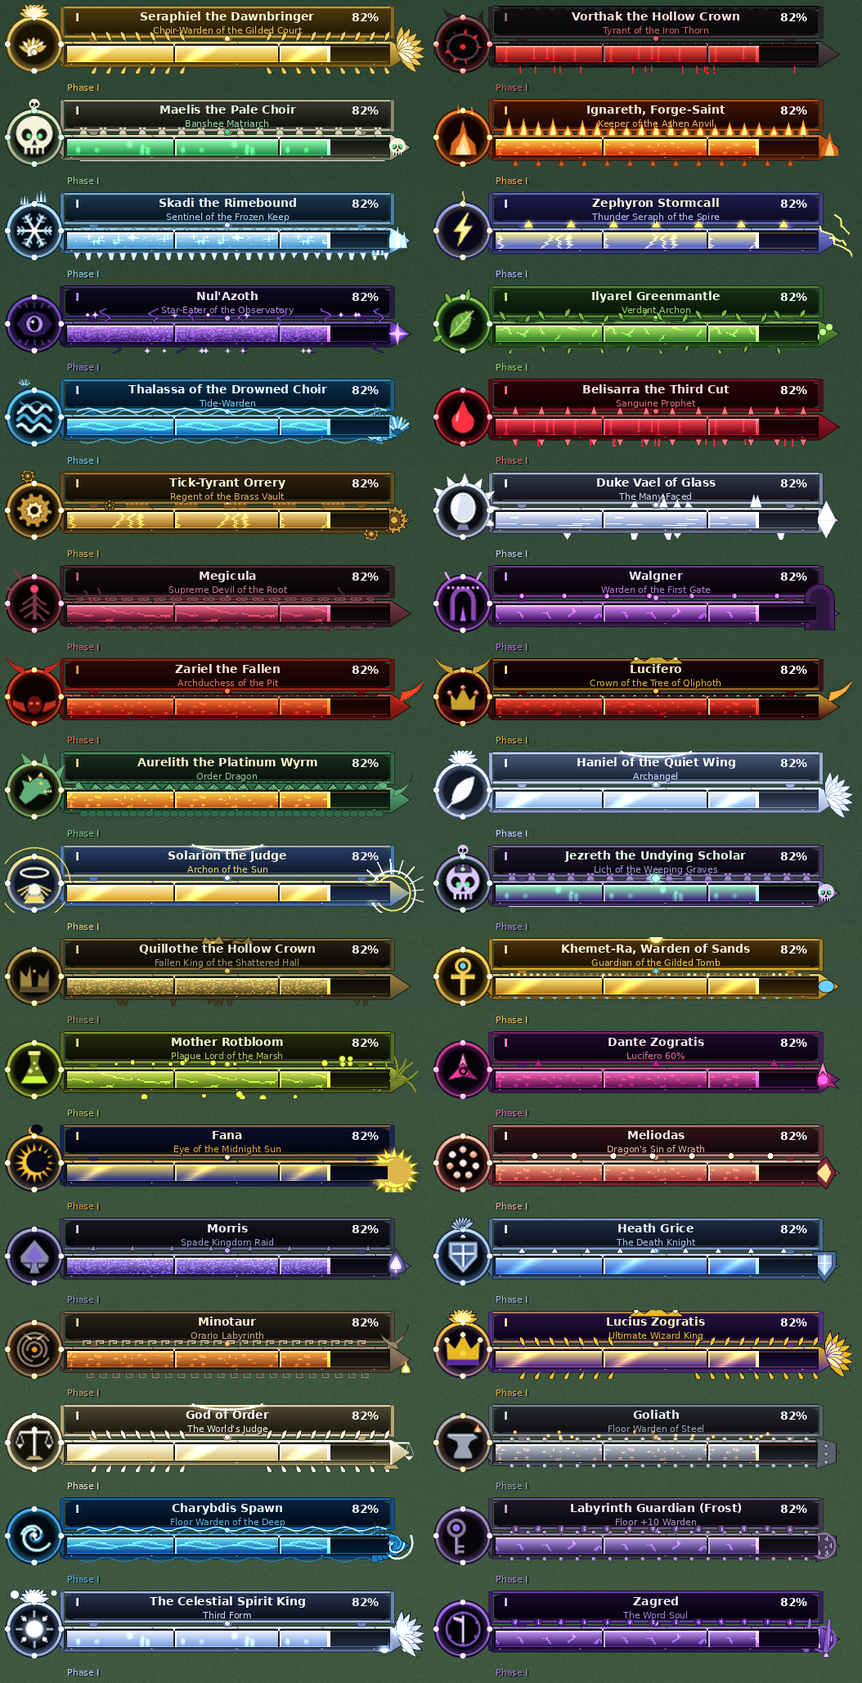
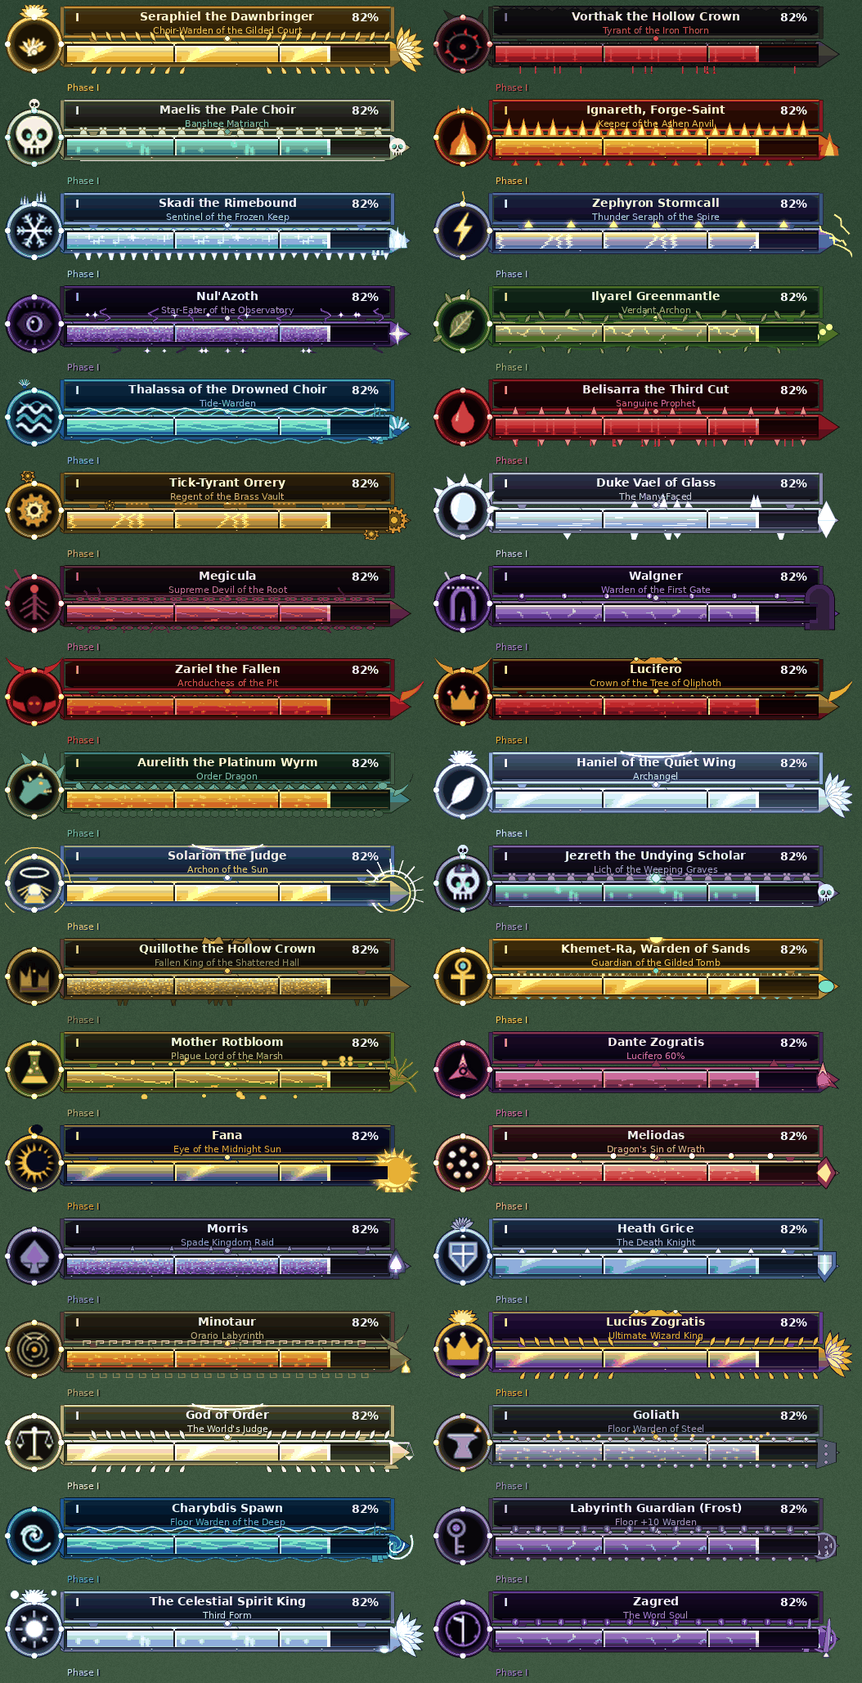
boss-bars: docs, lang test, chains art, showHp line, previews
Claude-Session: https://claude.ai/code/session_0174t393fJ2EgwV92FW9SroE

diff --git a/src/test/java/com/newuniverse/nusmp/boss/bars/BossBarLangTest.java b/src/test/java/com/newuniverse/nusmp/boss/bars/BossBarLangTest.java
@@ -1,0 +1,69 @@
+package com.newuniverse.nusmp.boss.bars;
+
+import com.google.gson.JsonObject;
+import com.google.gson.JsonParser;
+import org.junit.jupiter.api.Test;
+
+import java.io.IOException;
+import java.nio.file.Files;
+import java.nio.file.Path;
+import java.util.ArrayList;
+import java.util.List;
+import java.util.regex.Matcher;
+import java.util.regex.Pattern;
+import java.util.stream.Stream;
+
+import static org.junit.jupiter.api.Assertions.*;
+
+/**
+ * Why: "all text through lang keys". The fragment {@code tools/lang/boss_bars.json} is flat, and every {@code nusmp.bossbar.*} key the code asks for is in it (the code also gives a fallback text,
+ * but a missing key would show English in every language), including one name for each lair action the Decennial vocabulary and the D&D layer know.
+ */
+class BossBarLangTest {
+    private static JsonObject fragment() throws IOException {
+        return JsonParser.parseString(Files.readString(Path.of("tools/lang/boss_bars.json"))).getAsJsonObject();
+    }
+
+    @Test
+    void theFragmentIsFlatAndHasAKeyForEveryLairAction() throws IOException {
+        JsonObject f = fragment();
+        for (var e : f.entrySet()) {
+            assertTrue(e.getKey().startsWith("nusmp.bossbar."), e.getKey());
+            assertTrue(e.getValue().isJsonPrimitive() && e.getValue().getAsString().length() > 0, e.getKey());
+        }
+        JsonObject lairs = JsonParser.parseString(Files.readString(Path.of("src/main/resources/data/nusmp/mega/decennial/lairs.json"))).getAsJsonObject();
+        for (String id : lairs.keySet()) if (!id.startsWith("_")) assertTrue(f.has("nusmp.bossbar.lair." + id), "no name for the lair action " + id);
+        for (String id : List.of("tremor", "anti_magic_field", "searing_light", "falling_stars", "necrotic_mist")) assertTrue(f.has("nusmp.bossbar.lair." + id), "no name for the D&D lair action " + id);
+    }
+
+    @Test
+    void everyKeyTheCodeNamesIsInTheFragment() throws IOException {
+        JsonObject f = fragment();
+        Pattern key = Pattern.compile("\"(nusmp\\.bossbar\\.[a-z_.]+)\"");
+        List<String> missing = new ArrayList<>();
+        for (Path root : List.of(Path.of("src/main/java/com/newuniverse/nusmp/client/gui/bossbar"), Path.of("src/main/java/com/newuniverse/nusmp/boss/bars"))) {
+            try (Stream<Path> s = Files.walk(root)) {
+                for (Path p : (Iterable<Path>) s.filter(x -> x.toString().endsWith(".java"))::iterator) {
+                    Matcher m = key.matcher(Files.readString(p));
+                    while (m.find()) {
+                        String k = m.group(1);
+                        if (k.endsWith(".")) continue;                              // a prefix the code completes (nusmp.bossbar.lair.<id>)
+                        if (!f.has(k)) missing.add(p.getFileName() + " " + k);
+                    }
+                }
+            }
+        }
+        assertTrue(missing.isEmpty(), "keys the code names that tools/lang/boss_bars.json lacks: " + missing);
+    }
+
+    @Test
+    void theTextsWithArgumentsKeepTheirPlaceholders() throws IOException {
+        JsonObject f = fragment();
+        assertEquals(2, f.get("nusmp.bossbar.phase_named").getAsString().split("%s", -1).length - 1);
+        assertTrue(f.get("nusmp.bossbar.phase").getAsString().contains("%s"));
+        assertTrue(f.get("nusmp.bossbar.adds").getAsString().contains("%s"));
+        assertTrue(f.get("nusmp.bossbar.fighters").getAsString().contains("%s"));
+        assertTrue(f.get("nusmp.bossbar.lair_warning").getAsString().contains("%s"));
+        assertFalse(f.get("nusmp.bossbar.fighter").getAsString().contains("%s"));
+    }
+}

diff --git a/src/main/java/com/newuniverse/nusmp/client/gui/bossbar/CustomBarPainter.java b/src/main/java/com/newuniverse/nusmp/client/gui/bossbar/CustomBarPainter.java
@@ -132,6 +132,11 @@ final class CustomBarPainter {
         if (s.casting()) st.cast.set(font, CustomBarState.resolve(s.castName()), s.castName());
         if (s.invulnerable() && !st.invulnerable.isSet()) st.invulnerable.set(font, Component.translatableWithFallback("nusmp.bossbar.invulnerable", "Invulnerable"), BarStyles.class);
         if (s.enraged() && !st.enraged.isSet()) st.enraged.set(font, Component.translatableWithFallback("nusmp.bossbar.enraged", "Enraged"), BarStyles.class);
+        if (BossBarOptions.showHp() && st.portrait != null && !st.portrait.isRemoved()) {
+            int cur = Math.round(st.portrait.getHealth()), max = Math.round(st.portrait.getMaxHealth());
+            long k = cur * 1000003L + max;
+            if (st.hp.differs(k)) st.hp.setNum(font, Component.literal(cur + " / " + max), k);
+        }
         if (BossBarOptions.showDps()) {
             int d = Math.round(st.dps.percentPerSecond());
             if (st.dpsText.differs(d)) st.dpsText.setNum(font, Component.translatableWithFallback("nusmp.bossbar.dps", "-%s%%/s", d), d);
@@ -150,8 +155,8 @@ final class CustomBarPainter {
         layer(g, atlas, 0, 0, W, 0f, 0f);
         // socket: the boss itself if it is near, else the emblem
         boolean live = false;
-        LivingEntity e = mc.level != null && BossBarOptions.portrait() && !portraitFailed && !compact && !st.preview ? st.entity(mc.level, now) : null;
-        if (e != null) live = portrait(g, e, BarLayoutMath.SOCK_X, BarLayoutMath.SOCK_Y, BarLayoutMath.SOCK_R - 1);
+        LivingEntity e = mc.level != null && (BossBarOptions.portrait() || BossBarOptions.showHp()) && !st.preview ? st.entity(mc.level, now) : null;
+        if (e != null && BossBarOptions.portrait() && !portraitFailed && !compact) live = portrait(g, e, BarLayoutMath.SOCK_X, BarLayoutMath.SOCK_Y, BarLayoutMath.SOCK_R - 1);
         if (!live) {
             tint(g, WHITE, alpha);
             g.blit(BarStyles.EMBLEMS, BarLayoutMath.SOCK_X - 13, BarLayoutMath.SOCK_Y - 13, 26, 26, (float) ls.emblemU, (float) ls.emblemV, 32, 32, 256, 160);
@@ -312,7 +317,8 @@ final class CustomBarPainter {
         if (s.phaseCount() > 1 && BossBarOptions.showPhaseMarkers()) draw(g, font, st.roman.seq, BarLayoutMath.PLATE_X + 5, compact ? 8 : 5, 1f, bs.color("marker"), alpha);
         int right = BarLayoutMath.PLATE_X + BarLayoutMath.PLATE_W - 5;
         draw(g, font, st.pct.seq, right - st.pct.w, compact ? 8 : 5, 1f, WHITE, alpha);
-        if (rage && !compact) draw(g, font, st.enraged.seq, right - st.enraged.w * 0.7f, 12.5f, 0.7f, 0xFF6040, alpha);
+        if (rage && !compact) draw(g, font, st.enraged.seq, BarLayoutMath.PLATE_X + 5, 12.5f, 0.7f, 0xFF6040, alpha);
+        if (!compact && BossBarOptions.showHp() && st.hp.w > 0) draw(g, font, st.hp.seq, right - st.hp.w * 0.7f, 12.5f, 0.7f, 0xE6E6E6, alpha);
     }
 
     private static void underRow(GuiGraphics g, Font font, CustomBarState st, BarStyle bs, BossBarState s, double time, long now, float alpha, boolean invul) {

diff --git a/tools/boss_bar_preview.py b/tools/boss_bar_preview.py
@@ -206,6 +206,9 @@ def render(sid, hp=1.0, ghost=None, phase=1, phases=3, thresholds=(0.66, 0.33), 
     gl = layer(2)
     gcol = (255, 90, 60) if enraged else (hexc(c["invulnerable"]) if invulnerable else hexc(c["glow"]))
     comp(canvas, tinted(gl, gcol, 0.85), 0, 0, add=True)
+    if cast is not None:
+        rect(wx, CAST_Y, ww, 3, (0, 0, 0), 0.7)
+        rect(wx, CAST_Y, int(ww * cast[1]), 3, hexc(c["cast"]))
     img = Image.fromarray(np.clip(canvas, 0, 255).astype(np.uint8), "RGBA")
     d = ImageDraw.Draw(img)
 
@@ -224,8 +227,6 @@ def render(sid, hp=1.0, ghost=None, phase=1, phases=3, thresholds=(0.66, 0.33), 
     text("%d%%" % (round(hp * 100) if hp > 0.005 else 0), px + pw - 3, py + 1.5, (255, 255, 255), big, "ra")
     # under row
     if cast is not None:
-        rect(wx, CAST_Y, ww, 3, (0, 0, 0), 0.7)
-        rect(wx, CAST_Y, int(ww * cast[1]), 3, hexc(c["cast"]))
         text(cast[0], wx + ww / 2, ROW_Y - 1, hexc(c["cast"]), small, "ma")
     elif lair is not None:
         text("! " + lair[0] + "  %.1fs" % lair[1], wx + ww / 2, ROW_Y - 1, hexc(c["lair"]), small, "ma")
@@ -271,7 +272,7 @@ def sheet(ids, path, S=2):
             bar = render(sid, S=S, **stt)
             img.alpha_composite(bar, (8 + (k % 2) * cw, y + 12 + (k // 2) * ch))
         y += ch * 2 + 12
-    img.convert("RGB").save(path, optimize=True)
+    img.convert("RGB").quantize(256, dither=Image.Dither.NONE).save(path, optimize=True)
 
 
 def main(argv):
@@ -290,7 +291,7 @@ def main(argv):
     img = backdrop(cols * cw + 6, rows * ch + 6)
     for i, sid in enumerate(ids):
         img.alpha_composite(render(sid, S=S, hp=0.82, phase=1, phases=3, thresholds=(0.66, 0.33)), (6 + (i % cols) * cw, 6 + (i // cols) * ch))
-    img.convert("RGB").save(os.path.join(OUT, "overview.png"), optimize=True)
+    img.convert("RGB").quantize(256, dither=Image.Dither.NONE).save(os.path.join(OUT, "overview.png"), optimize=True)
     print("wrote", len(ids), "styles")
 
 

diff --git a/tools/gen_boss_bar_textures.py b/tools/gen_boss_bar_textures.py
@@ -171,15 +171,15 @@ def fx_tile(name):
                 edge = max(abs(hy) * 1.15, abs(hx) * 0.58 + abs(hy) * 0.58)
                 a[yy, xx] = 0.8 if edge > 2.6 else 0.12
     elif name == "chains":
-        for xx in range(FX_W):
-            link = (xx % 16)
-            y = 8 + math.sin(link / 16 * 2 * math.pi) * 3.5
-            for t in range(-1, 2):
-                put(xx, y + t, 0.95 if t == 0 else 0.55)
-        for k in range(4):
-            blob(k * 16 + 8, 8, 3.2, 5.0, 0.0)
-            for t in np.linspace(0, 6.283, 28):
-                put(k * 16 + 8 + math.cos(t) * 4.2, 8 + math.sin(t) * 5.5, 0.9)
+        big = Image.new("L", (FX_W * 4, FX_ROW_H * 4), 0)
+        bd = ImageDraw.Draw(big)
+        for k in range(FX_W // 16):
+            for cx, rx in ((k * 16 + 4, 5.2), (k * 16 + 12, 2.4)):
+                for dx in (-FX_W, 0, FX_W):
+                    bd.ellipse([(cx + dx - rx) * 4, (8 - 3.6) * 4, (cx + dx + rx) * 4, (8 + 3.6) * 4], outline=255, width=6)
+            bd.line([(k * 16 + 7, 8 * 4 / 4), (k * 16 + 9.5, 8)], fill=0)
+        small = np.array(big.resize((FX_W, FX_ROW_H), Image.BOX), float) / 255.0
+        a = np.clip(small * 1.6, 0, 1)
     arr = np.zeros((FX_ROW_H, FX_W, 4), np.uint8)
     arr[..., :3] = 255
     arr[..., 3] = np.clip(a * 255, 0, 255).astype(np.uint8)

diff --git a/docs/boss_bars.md b/docs/boss_bars.md
@@ -1,0 +1,170 @@
+# Custom boss bars (release 1.106.0 builder "boss-bars")
+
+Owner request: "also add custom boss bars to the dungeon bosses". Written without a game: nothing here was run in Minecraft. Previews are drawn by a python
+mock-up from the same textures and json files (`docs/previews/boss_bars/`, see the end).
+
+## NEW / REPLACED / KEPT
+
+| Part | Status |
+|---|---|
+| Custom client-drawn bar (`client/gui/bossbar/Custom*`, `BarStyles`), 36 styles, atlas art, emblems, fill effects | NEW |
+| Style data `assets/nusmp/boss_bars/*.json` + strict reader `boss/bars/BarStyle`, resolver `BarStyleResolver` | NEW |
+| `BossBarSource` (one interface) + adapters `BossBarSources` (Zogratis family and arcs, Labyrinth Guardian = Decennial / D&D / pocket, Spirit King, old Zagred, generic entity) | NEW |
+| `BossBarState` + `BossBarStatePayload` (+ `Preview`), `BossBarHub` (diff-based, 5/s), `/multiverse bossbar`, `/nusmp bossbar`, self-test `boss.bars` | NEW |
+| Config keys `bossbar.custom / scale / showPhaseMarkers / showHp / portrait / showDps` | NEW (appended to `nusmp-bossbar-client.toml`) |
+| The animated bar of 1.25.0 (`ModBossBarOverlay`, `BossBarPainter`, `BossBarAnim`, `BossBarSync`, `Style` / `Clear` packets, `BossBarThemes`) | KEPT, now the fallback: it draws every bar that has no custom style, and everything when `bossbar.custom=false` |
+| Vanilla boss bar look for other mods' and vanilla bosses | KEPT (drawn by the old overlay's `paintVanilla`, inside the custom stack when one is shown) |
+| Nothing was replaced or removed. | |
+
+## How it works
+
+* **Which bars**: every boss that owns a `ServerBossEvent` and calls `BossBarHub.track(entity, bar)` (one line, listed below). The vanilla boss event
+  stays what makes a bar exist and still carries the name, the colour and the health; the custom bar reads the fill from it.
+* **Server** (`boss/bars/BossBarHub`): every 4th tick per bar (5/s, bars spread over the four ticks) it asks the boss's `BossBarSource` for a
+  `BossBarState`, sends it to everyone who watches the bar **only if it differs** (`BossBarState.differs`: phase, notches, shield, flags, adds,
+  fighters, names, a lair action that appeared / changed / moved by more than 3 ticks, a wind-up that moved 5 %), sends the current state at once to a
+  player who starts watching, a final state with `DEAD` when the boss dies (`LivingDeathEvent`) and a `BossBarNet.Clear` to everyone told when the boss is
+  removed. The hub does nothing while no bar is tracked. Probe section `s.boss.bars_hub`.
+* **`BossBarSource`** (pure interface, all defaults): `styleId, name, title, phase, phaseCount, phaseThresholds, phaseName, shield, invulnerable, enraged,
+  lairId, lairTicks, adds, castName, castProgress, fighters`. `BossBarSources.of(entity)`: the entity itself if it implements the interface, else the
+  adapter of its family, else a generic one (style of its type, shield from absorption, fighters = players within 48 blocks).
+* **Client**: `CustomBarClient` keeps a `CustomBarState` per bar id; `CustomBarOverlay` listens to `RenderGuiLayerEvent.Pre` of vanilla's boss layer at
+  priority HIGH (before the animated overlay). When at least one visible bar has a loaded custom style (or a bar is dying or previewed) it lays out
+  all bars in one stack, draws custom ones with `CustomBarPainter`, hands every other bar to `ModBossBarOverlay.drawFallback`, and cancels the layer.
+  Otherwise it does nothing. If drawing throws it disables itself for the session and the old overlay takes over. The stack is scaled by the GUI Size
+  entry `boss_bar` (`GuiScale.begin`, from the top centre) and by `bossbar.scale`; three or more custom bars are drawn compact; the stack stops at 45 %
+  of the screen height. No `Screen` is involved, so the blur guard conventions do not apply (the `ScreenBlurGuardTest` still passes).
+* **Death**: the final `DEAD` state keeps the entry; when the vanilla bar disappears the custom bar stays 36 ticks and shatters (twelve strips fly
+  apart and fall; styles with `death: dissolve` fade up instead).
+
+## What each bar shows
+
+Plate: boss name, title line (Decennial title, arc character title, devil), phase roman numeral at the left, health percent at the right (the
+number only; with `bossbar.showHp` a small current / maximum line appears under it while the boss is loaded). Frame: the style's atlas (ornaments, name
+banner, socket) and the glow layer, additive, tinted by the style and breathing; red and faster when enraged; ice-blue and pulsing while invulnerable;
+red pulse below 25 % health; a flash at every phase change and on entrance. Fill: gradient, scrolling effect tile of the style (drips, embers, souls, ...),
+a slower white shimmer, bright leading edge; the **damage-lag chip** (white to glow colour, holds 12 ticks, drains at 7 % of the gap per tick, instant
+on a heal); **phase notches** at the thresholds of the boss (with triangles in the bezel, dimmed once passed); the **shield** band (absorption as
+share of max health); a green wash while healing; **invulnerable**: ice-blue veil, chains across the fill, "Invulnerable" replaces the title.
+Under the bar: a thin **wind-up bar** with the move's name while the boss casts; the **lair action** warning during its last 5 seconds (name flashes,
+ring of twelve dots counts down); "Phase II: name", "Adds 3", "3 fighters", optional damage per second. Socket: the **live boss** (head and shoulders
+of the entity, clipped to the socket, `bossbar.portrait`) with the style's emblem as a small badge, or the emblem alone when the boss is not loaded.
+Entrance: slide / rise / fade / flash per style.
+
+## Where each boss gets its numbers
+
+| Boss | Style | Phases (notches) | Other |
+|---|---|---|---|
+| 200 Decennial bosses (Labyrinth Guardian with a `DecennialLayer`) | `BarStyleResolver.forDecennial`: archetype, hall theme, creature, side | 2-4 from the profile's `at` shares | name + title from the profile, phase name, invulnerable during the 2 s shift (`controller.invulnerable`), next lair action (new read-only `DecennialBossController.nextLair()`), adds alive |
+| D&D guard bosses / floor wardens (Guardian without a profile) | `warden` | I / II at 50 % (III if mythic) | form names of the D&D profile |
+| Pocket mega-bosses (tag `nusmp_tomb_boss`) | `pocket_tomb` | as D&D | |
+| Dante / Vanica / Zenon / Devil Avatar | `zogratis` | 5 stages of the power curve, notches 85 / 65 / 45 / 25 | invulnerable while refilling or transforming, enraged on rage / Gates, wind-up = the move label, fighters |
+| Lucius, Goliath, Charybdis, God of Order | `lucius`, `goliath`, `charybdis`, `god_of_order` | as above | |
+| Arc characters (`ArcBoss`) | by name (Fana, Patolli, Rades, Rhya = `midnight_sun`; Morris, Lucifero = `spade_kingdom`; Zagred) else by saga: Seven Deadly Sins = `seven_sins`, DanMachi (Minotaur, Udaeus, ...) = `danmachi`, Spade Raid, Elf Reincarnation / allies = `magic_knights` | as above | title = the character's epithet |
+| Celestial Spirit King | `spirit_king` | 3 forms (67 / 33) | |
+| Old Zagred (`ZagredBossEntity`) | `zagred` | 4 acts (75 / 50 / 25) | |
+
+Not covered (still the animated bar): Julius's second bar and the Lucius channel bar (they do not call `track`).
+
+## Styles (36, `BarStyleIds.ALL`; generated by `tools/gen_boss_bar_textures.py`)
+
+Roster column = how many of the 200 Decennial bosses wear it.
+
+| Style | Family | Emblem | Fill effect | Roster |
+|---|---|---|---|---|
+| holy (gold-white laurel, winged crest) | theme | wing | shimmer | 9 |
+| evil (black iron, thorns, dripping red fill) | theme | thorn_crown | drip | 2 |
+| undead (bone frame, green soulfire) | theme | skull | souls | 7 |
+| fire | theme | flame | embers | 8 |
+| ice | theme | snowflake | frost | 8 |
+| storm | theme | bolt | sparks | 4 |
+| void | theme | void_eye | static | 21 |
+| forest | theme | leaf | leaves | 10 |
+| water | theme | wave | wave | 6 |
+| blood | theme | blood_drop | drip | 7 |
+| clockwork | theme | gear | sparks | 10 |
+| mirror | theme | mirror | glitch | 6 |
+| underworld (Qliphoth root; abyss rift ring) | theme | root | veins | 0 (fallback of two halls) |
+| qliphoth_gate (the seven gates) | theme | gate | runes | 7 |
+| devil | theme | horns | embers | 12 |
+| supreme_devil (crown and horns) | theme | crown_horns | embers | 8 |
+| dragon | theme | dragon | embers | 18 |
+| angel | theme | feather | shimmer | 17 |
+| archon (halo, rays) | theme | halo | shimmer | 16 |
+| lich (phylactery gem) | theme | lich | souls | 6 |
+| fallen_king (broken crown) | theme | broken_crown | static | 4 |
+| pocket_tomb (gold tomb frame, hieroglyph border) | theme | ankh | shimmer | pocket mega-bosses |
+| plague | theme | plague | veins | 10 |
+| zogratis | arc | triad | embers | the Zogratis family |
+| midnight_sun | arc | eclipse | shimmer | |
+| seven_sins | arc | sins (seven gems) | embers | |
+| spade_kingdom | arc | spade | static | |
+| magic_knights | arc | knight | shimmer | |
+| danmachi | arc | labyrinth | embers | |
+| lucius | arc | crown | shimmer | |
+| god_of_order | boss | scales | shimmer | |
+| goliath | boss | anvil | embers | 4 via archetype (stone colossus, tarrasque) |
+| charybdis | boss | whirlpool | wave | |
+| warden | boss | key | runes | D&D guard bosses |
+| spirit_king | boss | spirit | souls | |
+| zagred | boss | rune | runes | |
+
+## Files
+
+* Art generator: `tools/gen_boss_bar_textures.py` (+ `tools/boss_bar_art/{lib,styles,motifs,emblems}.py`). Deterministic. `--json` rewrites the style
+  json files from the table; the committed json is the source of truth after that (edit it by hand). Output: `textures/gui/boss_bar/frame_<id>.png`
+  (+ `.mcmeta` blur; 512x268: back / frame / glow layers of 512x84 = the 256x42 widget at 2x), `emblems.png` (32x32 x 36), `fillfx.png` (13 tileable
+  effects), `chains.png`; data `assets/nusmp/boss_bars/<id>.json` and `_index.json` (ids, emblem names, effect names, layout numbers).
+* Pure Java (`boss/bars`): `BarStyleIds`, `BarStyle`, `BarStyleResolver`, `BossBarState` (+ byte layout), `BossBarSource`, `GhostBar`, `PhaseMarkers`,
+  `BarLayoutMath`, `DpsMeter`. Server: `BossBarHub`, `BossBarSources`, `BossBarStatePayload`, `BossBarCommands`, `BossBarSelfTests`.
+* Client (`client/gui/bossbar`): `BarStyles` (reload listener), `CustomBarClient`, `CustomBarState`, `CustomBarOverlay`, `CustomBarPainter`.
+* Previews: `python3 tools/boss_bar_preview.py` -> `docs/previews/boss_bars/sheet_01..09.png` (four styles, four states each: full health / 58 % with
+  shield, ghost chip, wind-up; 17 % enraged with adds and lair warning; invulnerable) and `overview.png` (all 36).
+
+## Edits to existing files (additions only)
+
+| File | Edit |
+|---|---|
+| `boss/bar/BossBarNet.java` | `registerPayloads`: the `Clear` handler also tells `CustomBarClient`; registers `BossBarStatePayload` and `.Preview` |
+| `boss/bar/BossBarSync.java` | `init()` ends with `BossBarHub.init()` |
+| `client/gui/bossbar/BossBarOptions.java` | six config keys + getters |
+| `client/gui/bossbar/ModBossBarOverlay.java` | `drawFallback(...)` (one bar with the old code); `draw` untouched |
+| `NUSMP.java` | `CustomBarClient.init(modEventBus)` after the boss bar config line |
+| `entity/zogratis/ZogratisBoss.java` | `castLabel()`; `BossBarHub.track(this, bar)` next to `bar.setProgress` |
+| `labyrinth/seal/FloorWardenEntity.java` (= Labyrinth Guardian, Decennial, pocket bosses) | `BossBarHub.track(this, bar)` in `aiStep` |
+| `celestial/SpiritKingEntity.java`, `entity/ZagredBossEntity.java` | `BossBarHub.track(this, bar)` where they refresh the bar |
+| `labyrinth/mega/decennial/DecennialBossController.java` | `NextLair` record + `nextLair()` (read only) |
+
+## Tests
+
+`BossBarStateTest` (byte round trip, clamps, diff), `BarMathTest` (notches, phase from health, ghost easing, fill and layout, shatter, ring, damage ticker),
+`BarStyleResolverTest` (all 200 Decennial bosses, every hall theme, every saga, named bosses, every style used), `BarStylesAssetsTest` (every json parses
+and has its atlas, registered emblem, window and socket clear, emblem and effect sheets, layout block equals the Java constants), `NextLairTest`.
+Self-test `boss.bars` (server smoke): styles load from the jar, the roster of 200 resolves, the state packet through the real `FriendlyByteBuf` codec,
+`/multiverse bossbar preview` registered.
+
+## Config and commands
+
+`config/nusmp-bossbar-client.toml`, group `bossbar`: `custom` (true; false = the animated bar / vanilla), `scale` (0.5-2.0), `showPhaseMarkers`, `showHp`,
+`portrait`, `showDps`, plus the 1.25.0 keys `animations`, `shake` (also switches the hit shake of the custom bar), `percent`.
+`/multiverse bossbar styles` and `/multiverse bossbar preview <style> [hp%] [phase]` (operators, sends a preview to the caller);
+`/nusmp bossbar styles` and `/nusmp bossbar preview <style> [hp%] [phase]` (client side, no rights needed). A preview lasts 12 seconds and shows three
+phases, a 30 % shield, a wind-up, a looping lair warning, three adds and three fighters.
+
+## Honest list: not verified
+
+* Nothing was run in the game. All Java was type-checked against the stub API dump and the pure logic is covered by JUnit; the drawing code, the
+  event wiring, the packet registration and the live portrait have never run. Expect to fix small things on first launch.
+* The atlas layers, colours and positions were checked only in the python mock-up, whose font is not the game's. Text widths, the 0.7 scale small text
+  and the placement of the title line against the ornaments (some top ornaments reach into the title line) may need a tweak.
+* `RenderSystem.clear(256, ...)` after a drawn portrait and the `translate z 150` ordering are the standard recipe but untested; a failure disables the
+  portrait for the session (logged) and shows the emblem.
+* The portrait temporarily sets the entity's body / head rotation while drawing and puts them back; for entities with their own special pose code this
+  may look odd. `bossbar.portrait=false` turns it off.
+* `bossbar.showHp` draws "current / maximum" under the percentage only while the boss entity is loaded on the client (it reads the entity's health);
+  out of range only the percentage shows.
+* Blur on the atlas relies on `.png.mcmeta` `texture.blur` being read for GUI blits (the standard behaviour); if not, the 2x art is drawn with nearest
+  filtering and looks sharper-aliased at GUI scale 1.
+* Julius's bar and the Lucius channel bar are not tracked (still the animated bar).
+* `Generic` fighters = players within 48 blocks (an estimate); Zogratis bosses use their real fighter set.
+* The `death` shatter and `dissolve` animations, the entrance and the low-health pulse could not be seen in motion.
